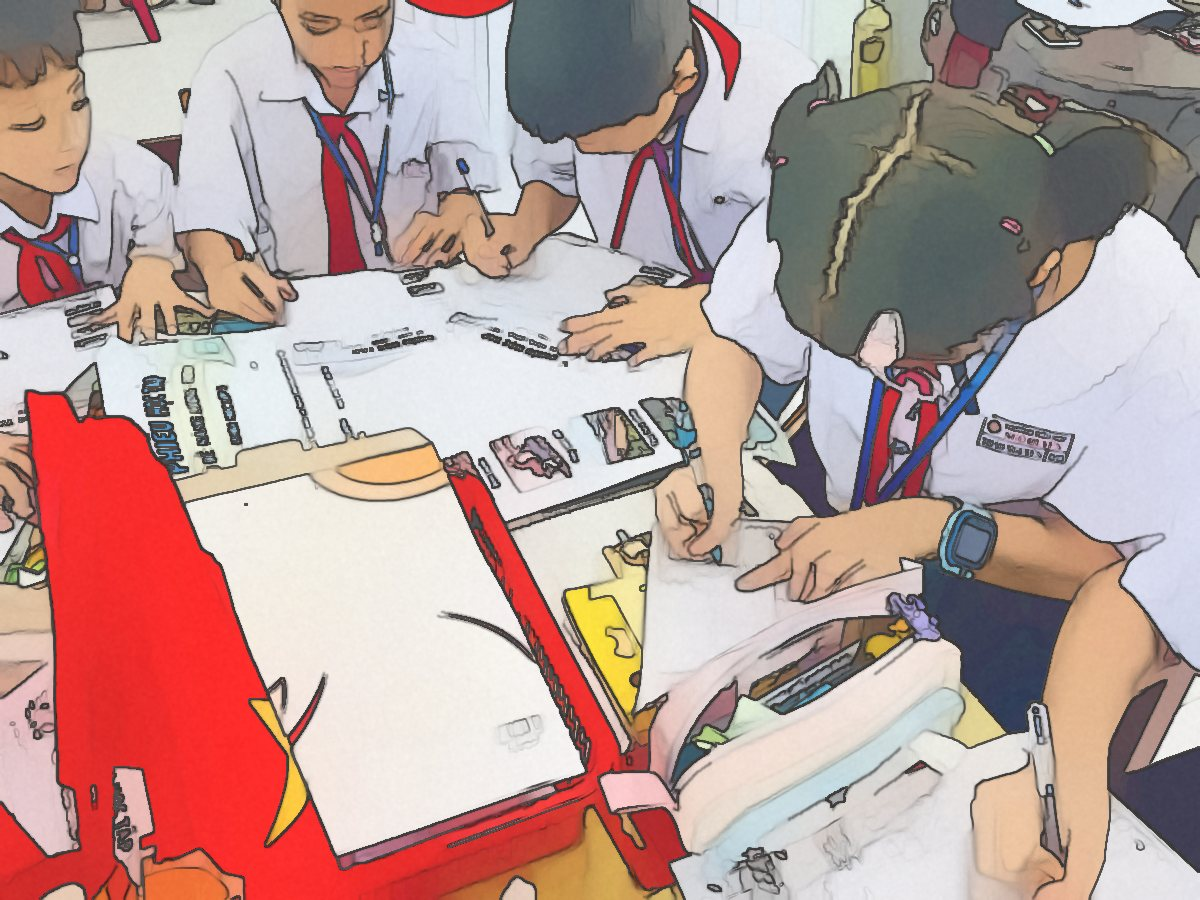
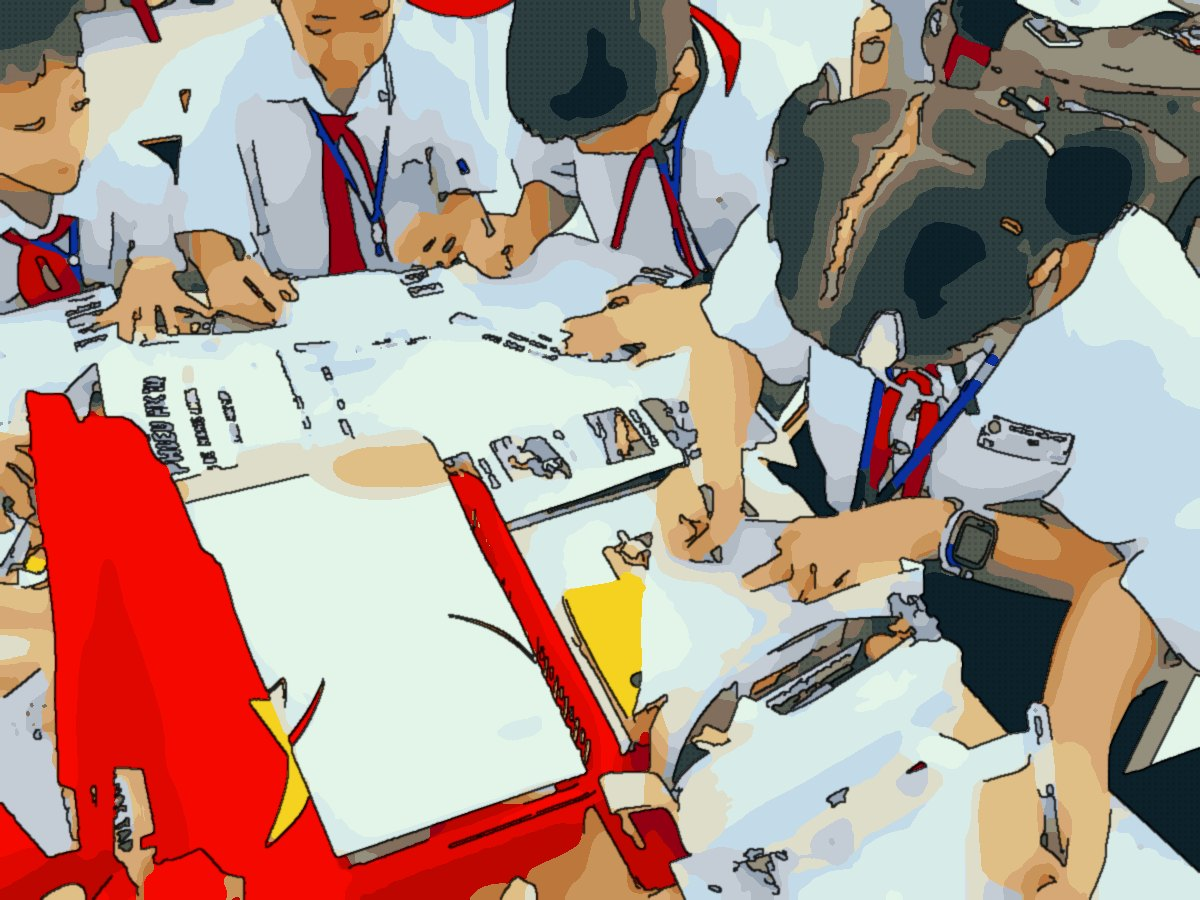
feat: anime-style photos, real school photo on slide 5, highlighted promise on closing slide

diff --git a/assets/slide-components.css b/assets/slide-components.css
@@ -205,3 +205,54 @@
   .acts { grid-template-columns: minmax(0,1fr); }
 }
 .milestone-art { justify-self: center; max-width: min(100%, calc((100dvh - 250px) * 1.777)); }
+.campus .school-photo { aspect-ratio: 1 / 1; max-height: calc(100dvh - 220px); justify-self: center; width: 100%; max-width: 560px; }
+
+/* ---------- Slide lời kết: làm nổi bật lời hứa ---------- */
+#loi-ket .inner { position: relative; }
+.sunburst { position: absolute; left: 50%; top: 50%; width: 1100px; height: 1100px; margin: -550px 0 0 -550px; z-index: 0; pointer-events: none;
+  background: repeating-conic-gradient(rgba(255,183,3,.16) 0 9deg, transparent 9deg 18deg);
+  -webkit-mask: radial-gradient(circle, #000 20%, transparent 62%); mask: radial-gradient(circle, #000 20%, transparent 62%);
+  animation: spin 60s linear infinite; }
+@keyframes spin { to { transform: rotate(360deg); } }
+.rising-hearts { position: absolute; inset: -80px 0; z-index: 0; pointer-events: none; overflow: hidden; }
+.rising-hearts span { position: absolute; bottom: -40px; font-size: 26px; color: var(--red); opacity: 0; animation: rise 9s linear infinite; }
+.rising-hearts span:nth-child(1) { left: 4%; animation-delay: 0s; }
+.rising-hearts span:nth-child(2) { left: 14%; animation-delay: 2.5s; font-size: 20px; }
+.rising-hearts span:nth-child(3) { left: 26%; animation-delay: 5s; }
+.rising-hearts span:nth-child(4) { left: 38%; animation-delay: 1.2s; font-size: 22px; }
+.rising-hearts span:nth-child(5) { left: 52%; animation-delay: 6.5s; font-size: 30px; }
+.rising-hearts span:nth-child(6) { left: 63%; animation-delay: 3.4s; }
+.rising-hearts span:nth-child(7) { left: 74%; animation-delay: .6s; font-size: 18px; }
+.rising-hearts span:nth-child(8) { left: 84%; animation-delay: 4.2s; }
+.rising-hearts span:nth-child(9) { left: 92%; animation-delay: 7.4s; font-size: 24px; }
+.rising-hearts span:nth-child(10) { left: 46%; animation-delay: 8.2s; font-size: 20px; }
+@keyframes rise { 0% { transform: translateY(0) rotate(0); opacity: 0; } 10% { opacity: .8; } 100% { transform: translateY(-115vh) rotate(25deg); opacity: 0; } }
+#loi-ket .thanks-card { position: relative; z-index: 1; box-shadow: 0 30px 70px -30px rgba(230,57,70,.55); }
+
+.shimmer { background: linear-gradient(100deg, var(--navy) 0 30%, var(--red) 42%, var(--sun) 50%, var(--red) 58%, var(--navy) 70% 100%); background-size: 260% 100%;
+  -webkit-background-clip: text; background-clip: text; color: transparent; animation: shimmer 5s ease-in-out infinite; }
+@keyframes shimmer { 0% { background-position: 100% 0; } 100% { background-position: 0 0; } }
+
+.promise { position: relative; width: 100%; max-width: 760px; padding: 34px clamp(18px, 4vw, 42px) 26px; border-radius: 28px;
+  background: linear-gradient(#fffaf0, #fffaf0) padding-box, conic-gradient(from var(--ang, 0deg), var(--red), var(--sun), var(--mint), var(--sky), var(--grape), var(--red)) border-box;
+  border: 5px solid transparent; animation: glow 2.6s ease-in-out infinite; }
+@property --ang { syntax: "<angle>"; inherits: false; initial-value: 0deg; }
+.promise { animation: glow 2.6s ease-in-out infinite, turn 6s linear infinite; }
+@keyframes turn { to { --ang: 360deg; } }
+@keyframes glow { 50% { box-shadow: 0 0 0 10px rgba(255,183,3,.18), 0 0 40px rgba(230,57,70,.35); } }
+.promise-ribbon { position: absolute; top: -18px; left: 50%; transform: translateX(-50%); background: var(--red); color: #fff; font-family: var(--display); font-weight: 800; padding: 6px 22px; border-radius: 999px; white-space: nowrap; box-shadow: 0 6px 0 #b51f2c; }
+.promise-text { font-family: var(--display); font-weight: 800; font-size: clamp(1.45rem, 3.2vw, 2.25rem); line-height: 1.3; color: var(--navy); text-wrap: balance; }
+.promise-text .w { display: inline-block; opacity: 0; transform: translateY(14px) scale(.9); transition: opacity .4s var(--ease), transform .5s var(--ease); transition-delay: calc(var(--w) * 70ms + 500ms); }
+.is-active .promise-text .w { opacity: 1; transform: none; }
+.promise-text .key { color: var(--red); }
+.promise-seal { position: absolute; right: -16px; bottom: -22px; width: 78px; height: 78px; border-radius: 50%; display: grid; place-items: center; text-align: center;
+  background: var(--sun); color: var(--red); font-family: var(--display); font-weight: 800; font-size: .78rem; line-height: 1.05; border: 3px dashed var(--red);
+  transform: rotate(-14deg) scale(0); transition: transform .6s cubic-bezier(.3,1.6,.5,1) 2.2s; }
+.is-active .promise-seal { transform: rotate(-14deg) scale(1); }
+.twinkle { position: absolute; color: var(--sun); font-size: 26px; animation: twinkle 1.8s ease-in-out infinite; }
+.t1 { top: -26px; left: 8%; } .t2 { top: 20%; right: -14px; animation-delay: .5s; font-size: 20px; }
+.t3 { bottom: -18px; left: 22%; animation-delay: 1s; color: var(--grape); } .t4 { top: 40%; left: -14px; animation-delay: 1.4s; color: var(--mint); font-size: 18px; }
+@keyframes twinkle { 50% { transform: scale(1.5) rotate(25deg); opacity: .4; } }
+.btn.pulse { animation: pulse 1.8s ease-in-out infinite; }
+@keyframes pulse { 0%,100% { box-shadow: 0 6px 0 rgba(20,33,61,.25), 0 0 0 0 rgba(230,57,70,.45); } 50% { box-shadow: 0 6px 0 rgba(20,33,61,.25), 0 0 0 14px rgba(230,57,70,0); } }
+@media (max-width: 480px) { .promise-seal { width: 62px; height: 62px; right: -6px; font-size: .66rem; } }

diff --git a/index.html b/index.html
@@ -252,13 +252,9 @@
       </div>
       <div class="art reveal" style="--i:1">
         <div class="campus">
-          <figure class="photo drawn wide frame">
-            <img src="images/day-lop-hoc-va-san-truong.jpg" alt="Dãy lớp học sơn màu xanh dương của trường, phía trước là hàng cây xanh" loading="lazy">
-            <figcaption>Dãy lớp học xanh mát giữa hàng cây · Ảnh: fanpage trường</figcaption>
-          </figure>
-          <figure class="photo drawn wide frame">
-            <img src="images/le-chao-co-tuyen-truyen-suc-khoe.jpg" alt="Học sinh ngồi kín sân trường trước dãy lớp học trong buổi sinh hoạt dưới cờ" loading="lazy">
-            <figcaption>Sân trường rộn ràng giờ sinh hoạt dưới cờ · Ảnh: fanpage trường</figcaption>
+          <figure class="photo frame school-photo">
+            <img src="images/toan-canh-truong-tieu-hoc-ngo-quyen.jpg" alt="Toàn cảnh Trường Tiểu học Ngô Quyền: dãy nhà ba tầng màu cam nhạt, cột cờ đỏ sao vàng ở giữa sân, dòng chữ Tiên học lễ – Hậu học văn" loading="lazy">
+            <figcaption>Ngôi trường thân yêu của chúng em</figcaption>
           </figure>
         </div>
       </div>
@@ -472,19 +468,22 @@
     <div class="blob" style="width:360px;height:360px;background:#fff1b8;top:-40px;left:-60px"></div>
     <div class="blob" style="width:300px;height:300px;background:#d9ccff;bottom:-30px;right:-40px;animation-delay:-8s"></div>
     <div class="inner single">
+      <div class="sunburst" aria-hidden="true"></div>
+      <div class="rising-hearts" aria-hidden="true"><span>♥</span><span>💖</span><span>♥</span><span>🌸</span><span>♥</span><span>⭐</span><span>♥</span><span>💐</span><span>♥</span><span>💖</span></div>
       <div class="thanks-card reveal" style="--i:0">
         <span class="kicker">💌 Lời kết</span>
-        <h2 class="title">Ngô Quyền mãi <em>trong trái tim em</em></h2>
-        <p class="lead">Em cảm ơn thầy cô đã dạy em biết chữ, biết yêu trường, yêu quê hương. Em hứa sẽ chăm ngoan, học giỏi để xứng đáng là học sinh của ngôi trường mang tên người anh hùng.</p>
-        <button class="btn" type="button" id="send-heart" style="background:var(--red);justify-self:center">Gửi một trái tim tới thầy cô ♥</button>
+        <h2 class="title shimmer">Ngô Quyền mãi trong trái tim em</h2>
+        <p class="lead">Em cảm ơn thầy cô đã dạy em biết chữ, biết yêu trường, yêu quê hương.</p>
+        <div class="promise">
+          <span class="twinkle t1" aria-hidden="true">✦</span><span class="twinkle t2" aria-hidden="true">✦</span><span class="twinkle t3" aria-hidden="true">✧</span><span class="twinkle t4" aria-hidden="true">✦</span>
+          <span class="promise-ribbon">🎀 Lời hứa của em</span>
+          <p class="promise-text" id="promise-text">Em hứa sẽ chăm ngoan, học giỏi để xứng đáng là học sinh của ngôi trường mang tên người anh hùng Ngô Quyền!</p>
+          <span class="promise-seal" aria-hidden="true">EM<br>HỨA<br>♥</span>
+        </div>
+        <button class="btn pulse" type="button" id="send-heart" style="background:var(--red);justify-self:center">Gửi một trái tim tới thầy cô ♥</button>
         <p class="heart-count" id="heart-count" aria-live="polite">Bấm nút để gửi trái tim đầu tiên nhé!</p>
         <button class="btn alt" type="button" data-go="0" style="justify-self:center">↺ Xem lại từ đầu</button>
-        <div class="sources">
-          <b>Nguồn thông tin và hình ảnh</b>
-          <span>Thông tin, ảnh về trường: <a href="https://www.facebook.com/p/Tr%C6%B0%E1%BB%9Dng-Ti%E1%BB%83u-h%E1%BB%8Dc-Ng%C3%B4-Quy%E1%BB%81n-Ph%C6%B0%E1%BB%9Dng-C%E1%BA%A9m-L%E1%BB%87-61594019667443/" target="_blank" rel="noopener">fanpage Trường Tiểu học Ngô Quyền – Phường Cẩm Lệ</a>.</span>
-          <span>Học 2 buổi/ngày: <a href="https://toplist.vn/top-list/truong-tieu-hoc-tot-nhat-quan-cam-le-da-nang-64916.htm" target="_blank" rel="noopener">toplist.vn</a>. Tranh dấu mốc phát triển: tư liệu tổng hợp về nhà trường.</span>
-          <span>Tranh minh hoạ Ngô Quyền, trận Bạch Đằng, ngôi trường, thầy cô: tự vẽ. Ảnh thật được chuyển sang kiểu tranh vẽ tay; không ghi họ tên học sinh.</span>
-        </div>
+        <p class="sources">Thông tin, ảnh về trường: <a href="https://www.facebook.com/p/Tr%C6%B0%E1%BB%9Dng-Ti%E1%BB%83u-h%E1%BB%8Dc-Ng%C3%B4-Quy%E1%BB%81n-Ph%C6%B0%E1%BB%9Dng-C%E1%BA%A9m-L%E1%BB%87-61594019667443/" target="_blank" rel="noopener">fanpage Trường Tiểu học Ngô Quyền – Phường Cẩm Lệ</a>.</p>
       </div>
     </div>
   </section>

diff --git a/assets/quiz-and-effects.js b/assets/quiz-and-effects.js
@@ -112,3 +112,16 @@
     if (e.detail.slide.id === 'loi-ket') burst(innerWidth / 2, innerHeight / 3, 120);
   });
 })();
+
+// Tách lời hứa thành từng chữ để hiện dần khi tới slide cuối; tô đỏ các chữ quan trọng.
+(function () {
+  var el = document.getElementById('promise-text');
+  if (!el) return;
+  var keys = ['chăm', 'ngoan,', 'giỏi', 'Ngô', 'Quyền!'];
+  var words = el.textContent.trim().split(/\s+/);
+  el.innerHTML = words.map(function (word, i) {
+    var isKey = keys.indexOf(word) >= 0 || words[i + 1] === 'giỏi';
+    var cls = isKey ? 'w key' : 'w';
+    return '<span class="' + cls + '" style="--w:' + i + '">' + word + '</span>';
+  }).join(' ');
+})();

diff --git a/tools/make-hand-drawn-photos.py b/tools/make-hand-drawn-photos.py
@@ -1,9 +1,11 @@
-"""Chuyển ảnh thật thành kiểu tranh vẽ tay màu nước, nhẹ nhàng.
+"""Chuyển ảnh thật thành tranh kiểu anime / truyện tranh tươi sáng.
 
 Cách dùng (cần opencv-python-headless + numpy):
     python make-hand-drawn-photos.py <thu-muc-anh-goc> <thu-muc-dau-ra>
 
 Mỗi ảnh .jpg trong thư mục gốc được lưu sang thư mục đầu ra cùng tên.
+Các bước: làm mịn giữ cạnh -> gom màu thành mảng bệt (cel shading)
+-> tăng màu tươi -> nét mực đen rõ như truyện tranh -> chấm lưới (screentone) ở vùng tối.
 """
 import sys
 from pathlib import Path
@@ -12,37 +14,68 @@ import cv2
 import numpy as np
 
 
-def watercolor(img: np.ndarray) -> np.ndarray:
+def flat_colors(img: np.ndarray, k: int = 14) -> np.ndarray:
+    """Gom ảnh về k màu (k-means trong không gian Lab) để có mảng màu bệt như tranh tô."""
+    lab = cv2.cvtColor(img, cv2.COLOR_BGR2LAB).reshape(-1, 3).astype(np.float32)
+    criteria = (cv2.TERM_CRITERIA_EPS + cv2.TERM_CRITERIA_MAX_ITER, 12, 1.0)
+    cv2.setRNGSeed(7)
+    _, labels, centers = cv2.kmeans(lab, k, None, criteria, 3, cv2.KMEANS_PP_CENTERS)
+    flat = centers[labels.flatten()].reshape(img.shape).astype(np.uint8)
+    return cv2.cvtColor(flat, cv2.COLOR_LAB2BGR)
+
+
+def ink_lines(smooth: np.ndarray) -> np.ndarray:
+    """Nét mực mảnh, gọn: 1.0 là giấy trắng, 0.0 là mực đen."""
+    gray = cv2.cvtColor(smooth, cv2.COLOR_BGR2GRAY)
+    edges = cv2.Canny(gray, 50, 130)
+    n, lab, stats, _ = cv2.connectedComponentsWithStats(edges, connectivity=8)
+    keep = np.zeros_like(edges)
+    for i in range(1, n):
+        if stats[i, cv2.CC_STAT_AREA] >= 25:  # bỏ nét vụn
+            keep[lab == i] = 255
+    keep = cv2.dilate(keep, np.ones((2, 2), np.uint8))
+    return 1.0 - cv2.GaussianBlur(keep, (0, 0), 0.7).astype(np.float32) / 255 * 0.85
+
+
+def white_balance(img: np.ndarray) -> np.ndarray:
+    """Kéo giãn từng kênh màu để trắng ra trắng, bỏ ám màu."""
+    out = np.empty_like(img)
+    for c in range(3):
+        lo, hi = np.percentile(img[..., c], (1, 99))
+        out[..., c] = np.clip((img[..., c].astype(np.float32) - lo) * 255 / max(hi - lo, 1), 0, 255)
+    return out
+
+
+def screentone(shape, value: np.ndarray) -> np.ndarray:
+    """Chấm lưới kiểu manga, chỉ phủ nhẹ lên vùng tối."""
+    h, w = shape
+    yy, xx = np.mgrid[0:h, 0:w]
+    dots = ((xx % 6 - 3) ** 2 + (yy % 6 - 3) ** 2) <= 2
+    dark = cv2.GaussianBlur((value < 95).astype(np.float32), (0, 0), 2)
+    return 1.0 - dots * dark * 0.12
+
+
+def anime(img: np.ndarray) -> np.ndarray:
     h, w = img.shape[:2]
     scale = 1200 / max(h, w)
     if scale < 1:
         img = cv2.resize(img, (int(w * scale), int(h * scale)), interpolation=cv2.INTER_AREA)
 
-    # Màu bệt mượt như màu nước: làm mịn giữ cạnh nhiều lần
-    paint = img
-    for _ in range(2):
-        paint = cv2.bilateralFilter(paint, 9, 60, 9)
-    paint = cv2.stylization(paint, sigma_s=70, sigma_r=0.4)
+    img = white_balance(img)
+    smooth = img
+    for _ in range(3):
+        smooth = cv2.bilateralFilter(smooth, 9, 60, 60)
+    smooth = cv2.edgePreservingFilter(smooth, flags=cv2.RECURS_FILTER, sigma_s=50, sigma_r=0.35)
 
-    # Pastel: sáng và dịu hơn ảnh gốc
-    hsv = cv2.cvtColor(paint, cv2.COLOR_BGR2HSV).astype(np.float32)
-    hsv[..., 1] *= 0.92
-    hsv[..., 2] = hsv[..., 2] * 0.78 + 255 * 0.24
-    paint = cv2.cvtColor(np.clip(hsv, 0, 255).astype(np.uint8), cv2.COLOR_HSV2BGR)
+    color = cv2.medianBlur(flat_colors(smooth, k=22), 5)
 
-    # Nét chì mảnh, chỉ giữ các đường viền lớn
-    gray = cv2.cvtColor(cv2.GaussianBlur(img, (0, 0), 2.2), cv2.COLOR_BGR2GRAY)
-    edges = cv2.Canny(gray, 40, 110)
-    edges = cv2.dilate(edges, np.ones((2, 2), np.uint8))
-    lines = 1.0 - cv2.GaussianBlur(edges, (0, 0), 0.8).astype(np.float32) / 255 * 0.45
-    out = paint.astype(np.float32) * lines[..., None]
+    # Màu tươi, sáng, trong kiểu anime
+    hsv = cv2.cvtColor(color, cv2.COLOR_BGR2HSV).astype(np.float32)
+    hsv[..., 1] = np.clip(hsv[..., 1] * 1.25, 0, 255)
+    hsv[..., 2] = np.clip(255 * (hsv[..., 2] / 255) ** 0.72, 0, 255)
+    color = cv2.cvtColor(hsv.astype(np.uint8), cv2.COLOR_HSV2BGR).astype(np.float32)
 
-    # Ám giấy ấm + vân giấy nhẹ
-    paper = np.array([236, 246, 255], np.float32)  # BGR, hơi kem
-    out = out * 0.9 + paper * 0.1
-    rng = np.random.default_rng(7)
-    grain = cv2.GaussianBlur(rng.normal(0, 1, out.shape[:2]).astype(np.float32), (0, 0), 1.2)
-    out += grain[..., None] * 5
+    out = color * ink_lines(smooth)[..., None] * screentone(img.shape[:2], hsv[..., 2])[..., None]
     return np.clip(out, 0, 255).astype(np.uint8)
 
 
@@ -54,7 +87,7 @@ def main(src: str, dst: str) -> None:
         if img is None:
             print("Bỏ qua (không đọc được):", path.name)
             continue
-        cv2.imwrite(str(out_dir / path.name), watercolor(img), [cv2.IMWRITE_JPEG_QUALITY, 84])
+        cv2.imwrite(str(out_dir / path.name), anime(img), [cv2.IMWRITE_JPEG_QUALITY, 86])
         print("Đã vẽ lại:", path.name)
 
 

diff --git a/README.md b/README.md
@@ -31,5 +31,5 @@ Rồi mở `http://localhost:8000`.
 - Học 2 buổi/ngày: toplist.vn.
 - Tranh dấu mốc phát triển (slide 8): `images/dau-moc-phat-trien-truong-ngo-quyen.jpg`.
 - Tranh minh hoạ (Ngô Quyền, trận Bạch Đằng, ngôi trường, thầy cô, đố vui): tự vẽ bằng SVG.
-- Ảnh thật được vẽ lại kiểu màu nước bằng `tools/make-hand-drawn-photos.py` (cần `opencv-python-headless`, `numpy`).
+- Ảnh thật (trừ ảnh toàn cảnh trường ở slide 5) được vẽ lại kiểu anime truyện tranh bằng `tools/make-hand-drawn-photos.py` (cần `opencv-python-headless`, `numpy`).
 - Thiệp không đăng họ tên, ảnh rõ mặt học sinh. Ảnh thầy cô chỉ đăng khi nhà trường đồng ý.
